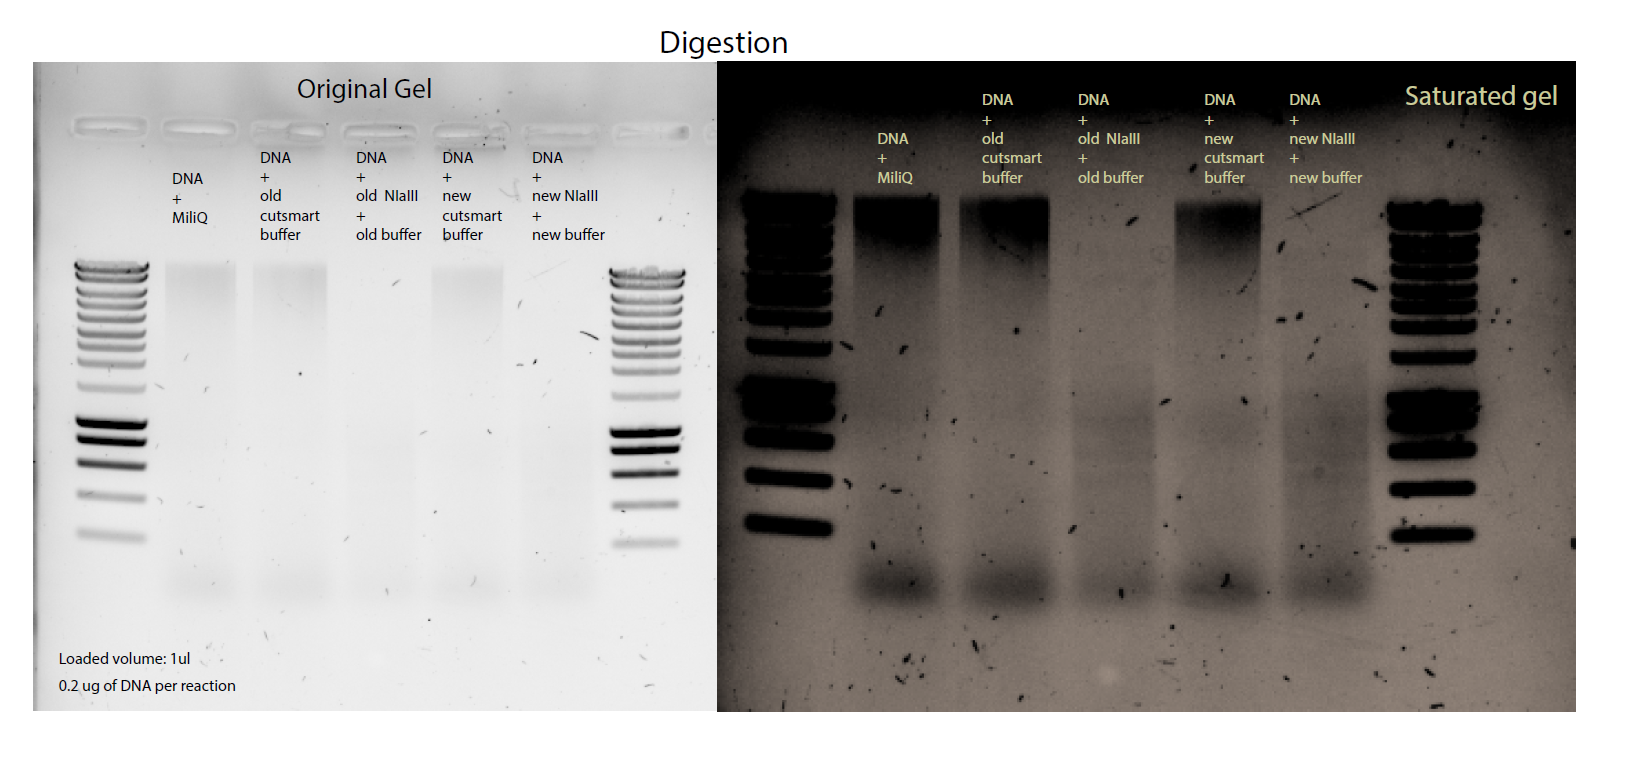
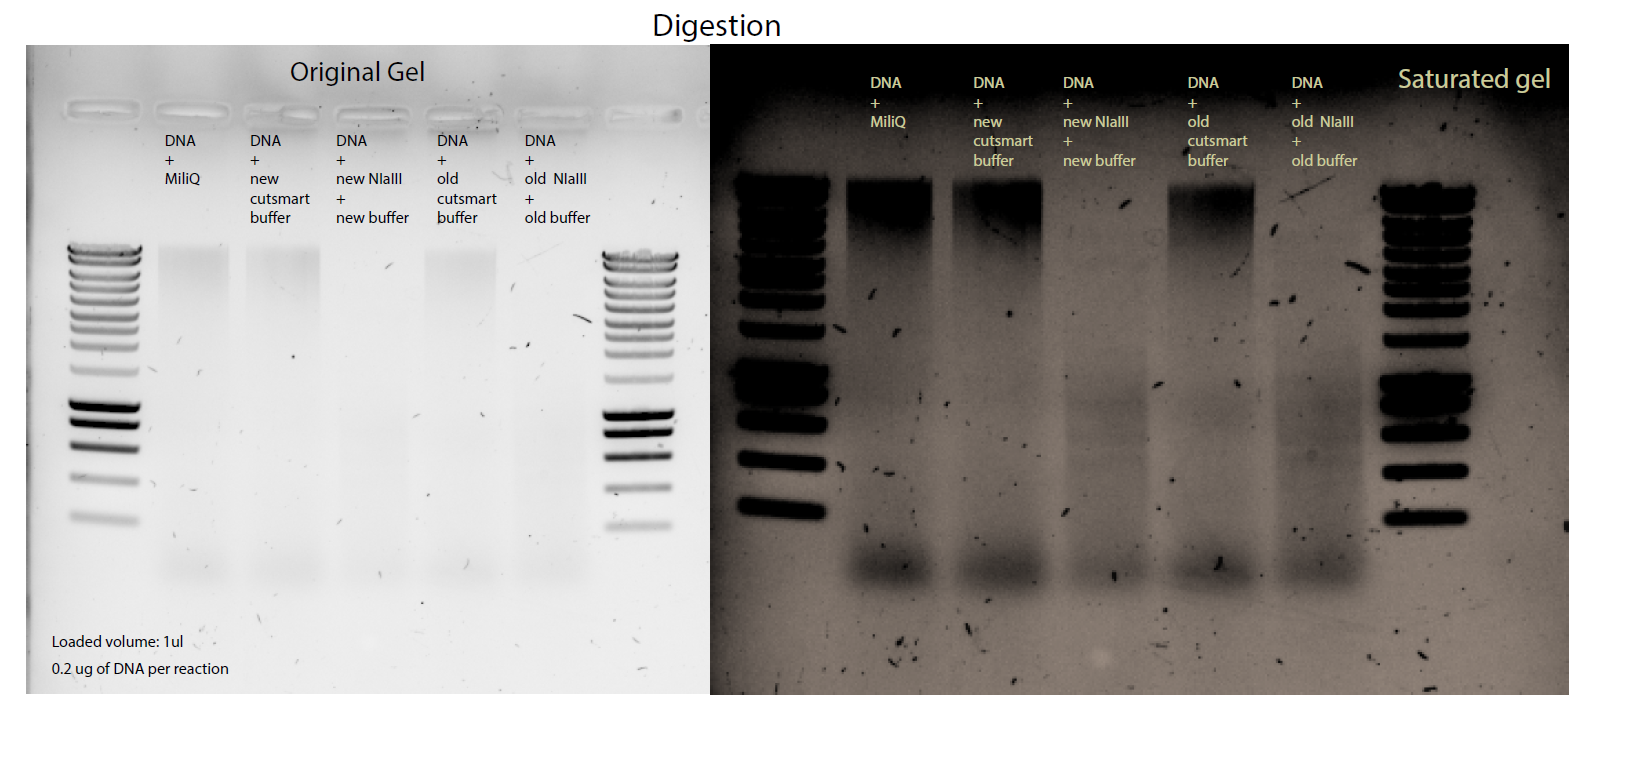
succesful ligation of NIaIII

diff --git a/journal/2020-08/2020-08-24-Digestion-circularization-PCR.md b/journal/2020-08/2020-08-24-Digestion-circularization-PCR.md
@@ -30,7 +30,7 @@ colorlinks: true
 
 ## Date
 
-26082020-
+26082020-14102020
 
 ## Objective
 
@@ -192,6 +192,11 @@ PCR using 9.32ul of DNA template :
 ![](../images/13012020-digestion-test-NIaIII.png)
 
 - Ligation next day 
+  - Resuspend the washed DNA in 10ul MiliQ
+  - I use all the DNA from the ligation : 9.32ul DNA for 20ul PCR
+  - Primer-set : E1 48Fwd /E2 49Rev
+
+![](../images/14102020-succesful-test-NiAIII.png){width=80%}
 
 ## Results
 
@@ -205,3 +210,5 @@ PCR using 9.32ul of DNA template :
 - Degradation noticed for the PCR done on NiaIII digested DNA 
 
 ## Conclusion
+
+- After many tests I can conclude that my samples are OK for satay sequencing because I got the expected results in gel for DpnII and NIaIII digestion. 
